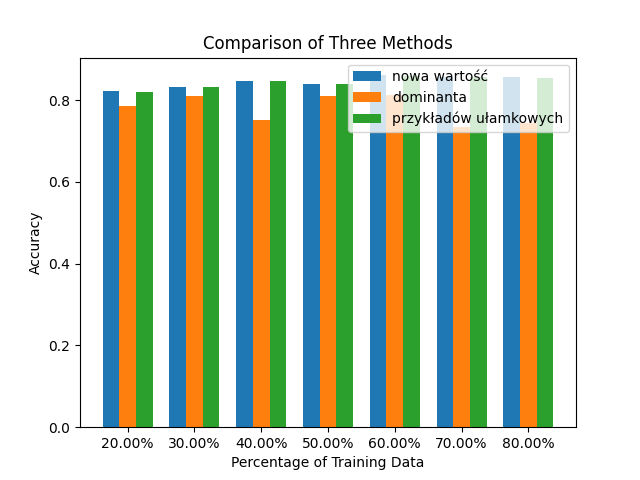
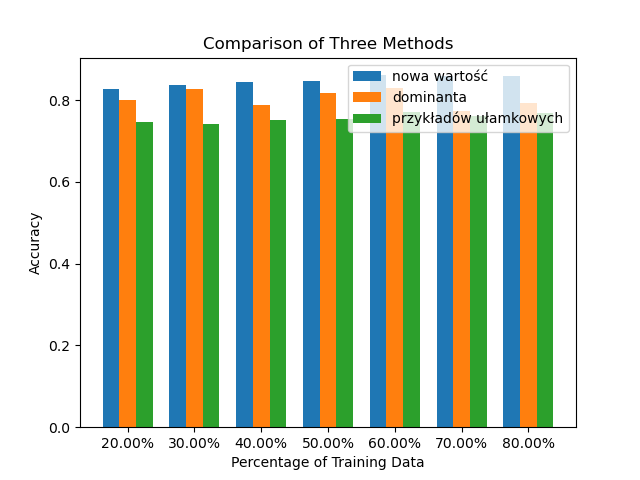
first implementation of custom FEM

diff --git a/decision_tree.py b/decision_tree.py
@@ -23,12 +23,82 @@ class DecisionTree():
     tree = None
     train_data = None
 
-    def __init__(self, train_data, max_depth, default_prediction, method="entropy", FEM=True):
+    def __init__(self, train_data, max_depth, default_prediction, method="entropy", use_FEM=True):
         self.train_data = copy.deepcopy(train_data)
-        tree = self.genenerate_tree(train_data, max_depth, method, FEM)
-        self.tree = tree
         self.default_prediction = default_prediction
         self.attr_value_freq = self.calculate_attr_value_freq(train_data)
+
+        self.train_data = (self.train_data[0], self.train_data[1], tuple([1]*len(self.train_data[1])))
+        if use_FEM:
+            while "missing" in np.array(list(self.train_data[0]["attrs_vals"])).flatten():
+                self.train_data = self.fractional_examples_method()            
+
+        self.tree = self.genenerate_tree(self.train_data, max_depth, method, use_FEM)
+
+    def fractional_examples_method(self):
+
+        FEM_train_data = [{"attrs_index": [], "attrs_vals": []}, [], []]
+        FEM_train_data[0]["attrs_index"] = copy.deepcopy(self.train_data[0]["attrs_index"])
+
+
+        class_counts_for_attr_val_for_attr_index = {}
+        for attr_index in self.train_data[0]["attrs_index"]:
+
+            attr_column = [row[attr_index] for row in self.train_data[0]["attrs_vals"]]
+            class_counts_for_attr_val = {}
+            for i, attr_val in enumerate(attr_column):
+
+                if attr_val == "missing":
+                    continue
+
+                if attr_val in class_counts_for_attr_val.keys():
+                    if self.train_data[1][i] in class_counts_for_attr_val[attr_val].keys():
+                        class_counts_for_attr_val[attr_val][self.train_data[1][i]] += 1
+                    else:
+                        class_counts_for_attr_val[attr_val][self.train_data[1][i]] = 1
+                else:
+                    class_counts_for_attr_val[attr_val] = {}
+                    class_counts_for_attr_val[attr_val][self.train_data[1][i]] = 1
+
+            class_counts_for_attr_val_for_attr_index[attr_index] = class_counts_for_attr_val
+
+
+        for i, row in enumerate(self.train_data[0]["attrs_vals"]):
+
+            if "missing" in row:
+                for attr_index in self.train_data[0]["attrs_index"]:
+                        
+                        if row[attr_index] == "missing":
+                            for attr_val in class_counts_for_attr_val_for_attr_index[attr_index].keys():
+
+                                row_copy = copy.deepcopy(row)
+                                row_copy[attr_index] = attr_val
+                                FEM_train_data[0]["attrs_vals"].append(row_copy)
+                                FEM_train_data[1].append(copy.deepcopy(self.train_data[1][i]))
+                                try:
+                                    freq = class_counts_for_attr_val_for_attr_index[attr_index][attr_val][self.train_data[1][i]]
+                                except:
+                                    freq = 0
+                                freq /= sum(class_counts_for_attr_val_for_attr_index[attr_index][attr_val].values())
+                                FEM_train_data[2].append(freq * copy.deepcopy(self.train_data[2][i]))
+
+                            break
+
+            else:
+
+                FEM_train_data[0]["attrs_vals"].append(copy.deepcopy(row))
+                FEM_train_data[1].append(copy.deepcopy(self.train_data[1][i]))
+                FEM_train_data[2].append(copy.deepcopy(self.train_data[2][i]))
+
+
+        FEM_train_data[0]["attrs_vals"] = tuple(FEM_train_data[0]["attrs_vals"])
+        FEM_train_data[1] = tuple(FEM_train_data[1])
+        FEM_train_data[2] = tuple(FEM_train_data[2])
+        FEM_train_data = tuple(FEM_train_data)
+
+        return FEM_train_data
+
+        
 
     def calculate_entropy(self, class_vals, uniq_class_vals, weights):
         """
@@ -117,10 +187,10 @@ class DecisionTree():
                   false negatives (fn), and true negatives (tn).
         """
         confusion_matrix = {
-            "tp": 0,  # detected and it's true
+            "tp": 0,  # detected and it"s true
             "fp": 0,  # detected but not true
-            "fn": 0,  # not detected but it's this class
-            "tn": 0  # not detected and it's not this class
+            "fn": 0,  # not detected but it"s this class
+            "tn": 0  # not detected and it"s not this class
         }
         for i, row in enumerate(test_data[0]["attrs_vals"]):
             decision = self.predict_decision_tree(row)
@@ -173,7 +243,7 @@ class DecisionTree():
         }
         return metrics
 
-    def inf_gain(self, attr_index, new_train_data, method, filtered_weights):
+    def inf_gain(self, attr_index, new_train_data, method):
         """
         Calculates the information gain for a given attribute index and new training data.
 
@@ -186,21 +256,22 @@ class DecisionTree():
         """
         number_of_rows = len(new_train_data[0]["attrs_vals"])
         attr_vals = [i[attr_index] for i in new_train_data[0]["attrs_vals"]]
+        FEM_weights = new_train_data[2]
         uniq_attr_vals = np.unique(attr_vals)
         uniq_class_vals = np.unique(new_train_data[1])
         total_entropy = 0
         if method == "gini":
-            total_entropy = self.calculate_gini_impurity(new_train_data[1], uniq_class_vals, filtered_weights)
+            total_entropy = self.calculate_gini_impurity(new_train_data[1], uniq_class_vals, FEM_weights)
         else:
-            total_entropy = self.calculate_entropy(new_train_data[1], uniq_class_vals, filtered_weights)
+            total_entropy = self.calculate_entropy(new_train_data[1], uniq_class_vals, FEM_weights)
         info = 0
         for attr_val in uniq_attr_vals:
             filtered_class_vals = []
             filtered_weights_for_attr_val = []
-            for index, val in enumerate(attr_vals):
+            for index, (val, weight) in enumerate(zip(attr_vals, FEM_weights)):
                 if val == attr_val:
                     filtered_class_vals.append(new_train_data[1][index])
-                    filtered_weights_for_attr_val.append(filtered_weights[index])
+                    filtered_weights_for_attr_val.append(weight)
             attr_vals_prob = len(filtered_class_vals)/number_of_rows
             if method == "gini":
                 entropy = self.calculate_gini_impurity(filtered_class_vals, uniq_class_vals, filtered_weights_for_attr_val)
@@ -209,7 +280,7 @@ class DecisionTree():
             info += attr_vals_prob*entropy
         return total_entropy - info
 
-    def genenerate_tree(self, new_train_data, max_depth, method, FEM):
+    def genenerate_tree(self, new_train_data, max_depth, method, use_FEM):
         """
         Generates a decision tree based on the given training data.
 
@@ -226,12 +297,8 @@ class DecisionTree():
         max_inf_gain = -1
         max_inf_gain_attr_index = None
         uniq_class_vals = np.unique(new_train_data[1])
-        if FEM:
-            filtered_weights = [len([x for x in attrs_vals if x != 'missing'])/len(attrs_vals) for attrs_vals in new_train_data[0]['attrs_vals']]
-        else:
-            filtered_weights = [1]*len(new_train_data[0]['attrs_vals'])
         for attr_index in new_train_data[0]["attrs_index"]:
-            info_gain = self.inf_gain(attr_index, new_train_data, method, filtered_weights)
+            info_gain = self.inf_gain(attr_index, new_train_data, method)
             if max_inf_gain < info_gain:
                 max_inf_gain = info_gain
                 max_inf_gain_attr_index = attr_index
@@ -243,17 +310,23 @@ class DecisionTree():
                 uniq_attr_vals[row[max_inf_gain_attr_index]] = {}
                 uniq_attr_vals[row[max_inf_gain_attr_index]]["attrs_vals"] = [row]
                 uniq_attr_vals[row[max_inf_gain_attr_index]]["class_vals"] = [new_train_data[1][i]]
+                uniq_attr_vals[row[max_inf_gain_attr_index]]["FEM_weight"] = [new_train_data[2][i]]
                 uniq_attr_vals[row[max_inf_gain_attr_index]]["class_vals_count"] = {}
+                uniq_attr_vals[row[max_inf_gain_attr_index]]["FEM_class_vals_count_weighted"] = {}
                 for k in uniq_class_vals:
                     uniq_attr_vals[row[max_inf_gain_attr_index]]["class_vals_count"][k] = 0
+                    uniq_attr_vals[row[max_inf_gain_attr_index]]["FEM_class_vals_count_weighted"][k] = 0
                 uniq_attr_vals[row[max_inf_gain_attr_index]]["count"] = 1
                 uniq_attr_vals[row[max_inf_gain_attr_index]]["class_vals_count"][new_train_data[1][i]] += 1
+                uniq_attr_vals[row[max_inf_gain_attr_index]]["class_vals_count"][new_train_data[1][i]] += new_train_data[2][i]
                 uniq_attr_vals[row[max_inf_gain_attr_index]]["pure_class"] = False
             else:
                 uniq_attr_vals[row[max_inf_gain_attr_index]]["count"] += 1
                 uniq_attr_vals[row[max_inf_gain_attr_index]]["class_vals_count"][new_train_data[1][i]] += 1
+                uniq_attr_vals[row[max_inf_gain_attr_index]]["FEM_class_vals_count_weighted"][new_train_data[1][i]] += new_train_data[2][i]
                 uniq_attr_vals[row[max_inf_gain_attr_index]]["attrs_vals"].append(row)
                 uniq_attr_vals[row[max_inf_gain_attr_index]]["class_vals"].append(new_train_data[1][i])
+                uniq_attr_vals[row[max_inf_gain_attr_index]]["FEM_weight"].append(new_train_data[2][i])
         if max_depth == 1 or len(new_train_data[0]["attrs_index"]) == 1:
             for attr_val in uniq_attr_vals:
                 the_best_class_val = None
@@ -261,10 +334,11 @@ class DecisionTree():
                 for class_val in uniq_attr_vals[attr_val]["class_vals_count"]:
                     if uniq_attr_vals[attr_val]["class_vals_count"][class_val] >= class_val_count:
                         the_best_class_val = class_val
+                        class_val_count = uniq_attr_vals[attr_val]["class_vals_count"][class_val]
                 tree.add_branch(attr_val, Leaf(the_best_class_val))
         else:
             for attr_val in uniq_attr_vals.keys():
-                new_data = [{"attrs_index": list(filter(lambda x: x != max_inf_gain_attr_index, new_train_data[0]["attrs_index"])), "attrs_vals": []}, []]
+                new_data = [{"attrs_index": list(filter(lambda x: x != max_inf_gain_attr_index, new_train_data[0]["attrs_index"])), "attrs_vals": []}, [], []]
                 for class_val in uniq_attr_vals[attr_val]["class_vals_count"]:
                     if uniq_attr_vals[attr_val]["class_vals_count"][class_val] == uniq_attr_vals[attr_val]["count"]:
                         tree.add_branch(attr_val, Leaf(class_val))  # pure class
@@ -273,7 +347,8 @@ class DecisionTree():
                 if uniq_attr_vals[attr_val]["pure_class"] is False:
                     new_data[0]["attrs_vals"] = uniq_attr_vals[attr_val]["attrs_vals"]
                     new_data[1] = uniq_attr_vals[attr_val]["class_vals"]
-                    node = self.genenerate_tree(tuple(new_data), max_depth - 1, method, FEM)
+                    new_data[2] = uniq_attr_vals[attr_val]["FEM_weight"]
+                    node = self.genenerate_tree(tuple(new_data), max_depth - 1, method, use_FEM)
                     tree.add_branch(attr_val, node)
         return tree
     
@@ -297,7 +372,7 @@ class DecisionTree():
         return attr_value_freq
 
 
-    def predict_tree_decision(self, tree, input_data, voting):
+    def predict_tree_decision(self, tree, input_data, use_voting):
         """
         Predicts the decision for a given input data using a decision tree.
 
@@ -312,12 +387,12 @@ class DecisionTree():
         while isinstance(node, Node):
             attr_index = node.attr_index
             input_attr_val = input_data[attr_index]
-            if input_attr_val == 'missing' and voting:
+            if input_attr_val == "missing" and use_voting:
                 class_votes = {}
                 total_weight = sum(self.attr_value_freq[attr_index].values())
                 for attr_val, freq in self.attr_value_freq[attr_index].items():
                     if attr_val in node.branches:
-                        predicted_class = self.predict_tree_decision(node.branches[attr_val], input_data, voting)
+                        predicted_class = self.predict_tree_decision(node.branches[attr_val], input_data, use_voting)
                         if predicted_class not in class_votes:
                             class_votes[predicted_class] = 0
                         class_votes[predicted_class] += freq / total_weight
@@ -329,7 +404,7 @@ class DecisionTree():
             return node.decision
         return node.default_prediction
 
-    def predict_decision_tree(self, input_data, voting=False):
+    def predict_decision_tree(self, input_data, use_voting=False):
         """
         Predicts the output for the given input data using the Decision Tree model.
 
@@ -339,7 +414,7 @@ class DecisionTree():
         Returns:
         - The predicted output based on the Decision Tree model.
         """
-        return self.predict_tree_decision(self.tree, input_data, voting)
+        return self.predict_tree_decision(self.tree, input_data, use_voting)
 
 
 class Node:

diff --git a/main.py b/main.py
@@ -116,11 +116,11 @@ list_of_acc = []
 for i in list_of_percent_train_data:
     print(i)
     train_data, test_data = split_random_to_train_and_test_data(row_attrs, class_vals, i)
-    decision_tree = DecisionTree(train_data, MAX_DEPTH, method='entropy', FEM=True)
+    decision_tree = DecisionTree(train_data, MAX_DEPTH, method='entropy', use_FEM=True)
     acc = decision_tree.calculate_acc(test_data)
     list_of_acc.append(acc)
     print(acc)
-    decision_tree = DecisionTree(train_data, MAX_DEPTH, method='gini', FEM=True)
+    decision_tree = DecisionTree(train_data, MAX_DEPTH, method='gini', use_FEM=True)
     acc = decision_tree.calculate_acc(test_data)
     list_of_acc.append(acc)
     labels_for_percent_of_train_data.append('%.2f%%' % (i))
@@ -145,28 +145,28 @@ for i in list_of_percent_train_data:
     train_data, test_data, train_data_mode, test_data_mode, train_data_distrib, test_data_distrib = \
         split_random_to_train_and_test_data_diff_methods(row_attrs, class_vals, i)
 
-    decision_tree = DecisionTree(train_data, MAX_DEPTH, default_prediction, method='gini', FEM=False)
+    decision_tree = DecisionTree(train_data, MAX_DEPTH, default_prediction, method='gini', use_FEM=False)
     acc = decision_tree.calculate_acc(test_data)
-    cm = confusion_matrix(test_data[1], [decision_tree.predict_decision_tree(row) for i, row in enumerate(test_data[0]["attrs_vals"])])
-    f1 = f1_score(test_data[1], [decision_tree.predict_decision_tree(row) for i, row in enumerate(test_data[0]["attrs_vals"])], average='weighted')
+    cm = confusion_matrix(test_data[1], [decision_tree.predict_decision_tree(row, use_voting=False) for i, row in enumerate(test_data[0]["attrs_vals"])])
+    f1 = f1_score(test_data[1], [decision_tree.predict_decision_tree(row, use_voting=False) for i, row in enumerate(test_data[0]["attrs_vals"])], average='weighted')
     list_of_acc.append(acc)
     list_of_f1.append(f1)
     print(acc)
     print(f1)
 
-    decision_tree = DecisionTree(train_data_mode, MAX_DEPTH, default_prediction, method='gini', FEM=False)
+    decision_tree = DecisionTree(train_data_mode, MAX_DEPTH, default_prediction, method='gini', use_FEM=False)
     acc = decision_tree.calculate_acc(test_data_mode)
-    cm = confusion_matrix(test_data_mode[1], [decision_tree.predict_decision_tree(row) for i, row in enumerate(test_data_mode[0]["attrs_vals"])])
-    f1 = f1_score(test_data_mode[1], [decision_tree.predict_decision_tree(row) for i, row in enumerate(test_data_mode[0]["attrs_vals"])], average='weighted')
+    cm = confusion_matrix(test_data_mode[1], [decision_tree.predict_decision_tree(row, use_voting=True) for i, row in enumerate(test_data_mode[0]["attrs_vals"])])
+    f1 = f1_score(test_data_mode[1], [decision_tree.predict_decision_tree(row, use_voting=True) for i, row in enumerate(test_data_mode[0]["attrs_vals"])], average='weighted')
     list_of_acc.append(acc)
     list_of_f1.append(f1)
     print(acc)
     print(f1)
 
-    decision_tree = DecisionTree(train_data, MAX_DEPTH, default_prediction, method='gini', FEM=True)
+    decision_tree = DecisionTree(train_data, MAX_DEPTH, default_prediction, method='gini', use_FEM=False)
     acc = decision_tree.calculate_acc(test_data)
-    cm = confusion_matrix(test_data[1], [decision_tree.predict_decision_tree(row, voting=True) for i, row in enumerate(test_data[0]["attrs_vals"])])
-    f1 = f1_score(test_data[1], [decision_tree.predict_decision_tree(row, voting=True) for i, row in enumerate(test_data[0]["attrs_vals"])], average='weighted')
+    cm = confusion_matrix(test_data[1], [decision_tree.predict_decision_tree(row, use_voting=True) for i, row in enumerate(test_data[0]["attrs_vals"])])
+    f1 = f1_score(test_data[1], [decision_tree.predict_decision_tree(row, use_voting=True) for i, row in enumerate(test_data[0]["attrs_vals"])], average='weighted')
     list_of_acc.append(acc)
     list_of_f1.append(f1)
     print(acc)
@@ -174,6 +174,6 @@ for i in list_of_percent_train_data:
 
     labels_for_percent_of_train_data.append('%.2f%%' % (i))
 
-visualize_tree(tree=decision_tree.tree, attrs_names=ATTRS_NAMES,output_name="tree.png")
+# visualize_tree(tree=decision_tree.tree, attrs_names=ATTRS_NAMES,output_name="tree.png")
 visulate_acc_per_replacement_method(list_of_acc, labels_for_percent_of_train_data)
 visulate_f1_per_replacement_method(list_of_f1, labels_for_percent_of_train_data)
